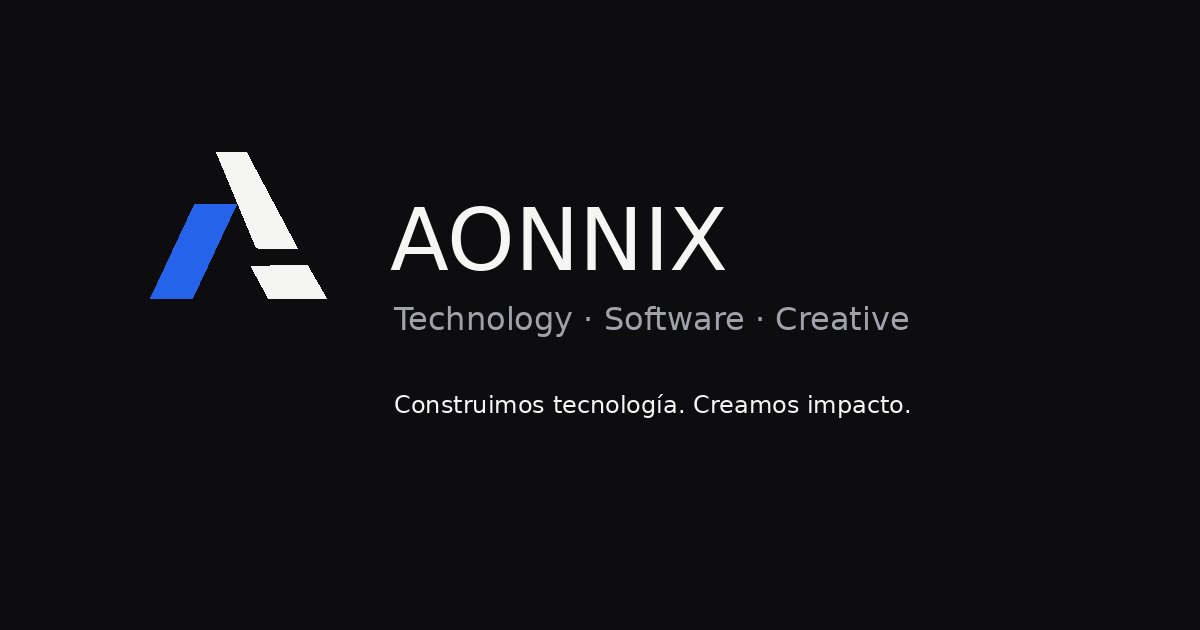
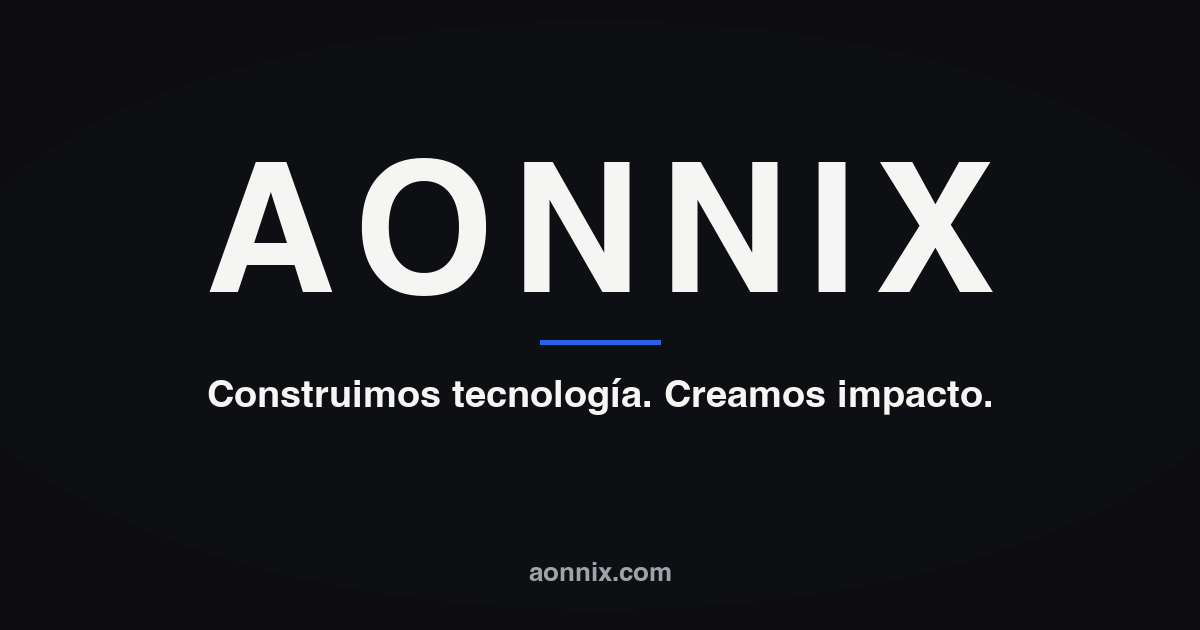
Limpia estructura web
rename brand a assets, regenera og-image sin isotipo, refina tipografia de paginas legales (Inter), centra headers, alinea meta de soporte CRED

diff --git a/legal-shared.css b/legal-shared.css
@@ -14,10 +14,12 @@
     --ink-faint:    #A1A1AA;        /* cold-silver del brand kit */
     --rule:         #e6e6ea;
     --rule-strong:  #cfcfd4;
-    /* "gold" se mantiene como compatibility shim — ahora apunta a graphite */
-    --gold:         #0D0D0F;
-    --gold-text:    #0D0D0F;
-    --gold-soft:    rgba(13, 13, 15, 0.05);
+    /* `--gold` se conserva como nombre histórico (compatibilidad con selectores existentes)
+       pero hoy apunta al premium blue del sistema — actúa como accent activo en eyebrows,
+       subrayados de h2, drop caps y guiones decorativos */
+    --gold:         #2563EB;
+    --gold-text:    #2563EB;
+    --gold-soft:    rgba(37, 99, 235, 0.08);
 
     /* Tipografía — Inter como principal alineado con styles.css del home */
     --serif-stack:  "Inter", "Manrope", system-ui, -apple-system, "Segoe UI", Roboto, sans-serif;
@@ -43,18 +45,19 @@
 
 @media (prefers-color-scheme: dark) {
     :root {
-        --paper:        #0D0D0F;     /* graphite del brand kit */
+        --paper:        #0D0D0F;
         --paper-soft:   #101013;
         --surface:      #131316;
         --surface-mute: #18181b;
-        --ink:          #F5F5F3;     /* soft-white del brand kit */
+        --ink:          #F5F5F3;
         --ink-muted:    #b8b8c0;
         --ink-faint:    #A1A1AA;
         --rule:         #1d1d22;
         --rule-strong:  #2c2c33;
-        --gold:         #F5F5F3;
-        --gold-text:    #F5F5F3;
-        --gold-soft:    rgba(245, 245, 243, 0.08);
+        /* En dark mode el accent se ilumina ligeramente para mantener contraste */
+        --gold:         #3b82f6;
+        --gold-text:    #60a5fa;
+        --gold-soft:    rgba(59, 130, 246, 0.12);
     }
 }
 
@@ -80,6 +83,9 @@ html {
 body {
     font-family: var(--serif-stack);
     font-weight: 400;
+    /* Bumpear ligeramente el tamaño base — Inter es más estrecha que Space Grotesk,
+       1.05rem mejora la legibilidad de los párrafos largos legales. */
+    font-size: 1.05rem;
     line-height: 1.7;
     color: var(--ink);
     background: var(--paper);
@@ -172,9 +178,10 @@ img, svg { max-width: 100%; display: block; }
     padding: clamp(2.5rem, 6vw, var(--space-6)) clamp(1.25rem, 5vw, 2rem) var(--space-5);
 }
 
-/* ---------- Hero ---------- */
+/* ---------- Hero (centrado) ---------- */
 .hero {
     margin-bottom: var(--space-5);
+    text-align: center;
 }
 
 .hero .eyebrow {
@@ -191,9 +198,10 @@ img, svg { max-width: 100%; display: block; }
 
 .hero .eyebrow::before {
     content: "";
-    width: 28px;
-    height: 1px;
+    width: 36px;
+    height: 2px;
     background: var(--gold);
+    border-radius: 2px;
 }
 
 .hero h1 {
@@ -202,7 +210,7 @@ img, svg { max-width: 100%; display: block; }
     line-height: 1.1;
     letter-spacing: -0.025em;
     color: var(--ink);
-    margin-bottom: 1rem;
+    margin: 0 auto 1rem;
     max-width: 22ch;
 }
 
@@ -258,9 +266,10 @@ img, svg { max-width: 100%; display: block; }
     position: absolute;
     left: 0;
     bottom: 0;
-    width: 36px;
-    height: 1px;
+    width: 48px;
+    height: 2px;
     background: var(--gold);
+    border-radius: 2px;
 }
 
 .section h3 {
@@ -272,15 +281,8 @@ img, svg { max-width: 100%; display: block; }
     letter-spacing: -0.005em;
 }
 
-/* Drop cap discreto para la primera <p> de la sección "intro" */
-.section.intro p:first-of-type::first-letter {
-    font-size: 3.1em;
-    font-weight: 600;
-    float: left;
-    line-height: 0.9;
-    margin: 0.1em 0.18em 0 -0.04em;
-    color: var(--gold-text);
-}
+/* (Drop cap eliminada: las páginas legales son texto informativo simple,
+   no editorial. La primera letra de cada sección se trata como texto normal.) */
 
 /* ---------- Body type ---------- */
 .section p {

diff --git a/support/cred-infantil/index.html b/support/cred-infantil/index.html
@@ -6,8 +6,8 @@
     <meta name="description" content="Centro de soporte de CRED Infantil 0–5: preguntas frecuentes, restauración de compras, fuentes oficiales (MINSA, OMS) y contacto directo.">
     <meta name="viewport" content="width=device-width, initial-scale=1, viewport-fit=cover">
     <meta name="robots" content="index,follow">
-    <meta name="theme-color" content="#ffffff" media="(prefers-color-scheme: light)">
-    <meta name="theme-color" content="#0b0b0d" media="(prefers-color-scheme: dark)">
+    <meta name="theme-color" content="#F5F5F3" media="(prefers-color-scheme: light)">
+    <meta name="theme-color" content="#0D0D0F" media="(prefers-color-scheme: dark)">
     <link rel="canonical" href="https://aonnix.com/support/cred-infantil/">
 
     <meta property="og:type" content="article">
@@ -18,13 +18,14 @@
     <meta property="og:description" content="Preguntas frecuentes, fuentes oficiales y contacto directo del equipo Aonnix Dev.">
     <meta property="og:image" content="https://aonnix.com/og-image.png">
 
-    <link rel="icon" type="image/svg+xml" href="/favicon.svg">
-    <link rel="apple-touch-icon" href="/apple-touch-icon.svg">
-    <link rel="mask-icon" href="/favicon.svg" color="#0e0e10">
+    <link rel="icon" type="image/png" sizes="32x32" href="/assets/favicons/favicon-32x32.png">
+    <link rel="icon" type="image/png" sizes="192x192" href="/assets/favicons/favicon-192x192.png">
+    <link rel="icon" type="image/png" sizes="512x512" href="/assets/favicons/favicon-512x512.png">
+    <link rel="apple-touch-icon" href="/assets/favicons/apple-touch-icon.png">
 
     <link rel="preconnect" href="https://fonts.googleapis.com">
     <link rel="preconnect" href="https://fonts.gstatic.com" crossorigin>
-    <link href="https://fonts.googleapis.com/css2?family=Space+Grotesk:wght@400;600&display=swap" rel="stylesheet">
+    <link href="https://fonts.googleapis.com/css2?family=Inter:wght@400;500;600;700&display=swap" rel="stylesheet">
 
     <link rel="stylesheet" href="/styles.css">
     <link rel="stylesheet" href="/legal-shared.css">
@@ -46,7 +47,7 @@
             <div class="hero">
                 <div class="eyebrow">CRED Infantil 0–5</div>
                 <h1>Centro de soporte</h1>
-                <div class="meta">Control de Crecimiento y Desarrollo · 0 a 5 años</div>
+                <div class="meta">Última actualización · 7 de mayo de 2026</div>
             </div>
 
             <section class="section intro with-margin-num">

diff --git a/terms/cred-infantil/index.html b/terms/cred-infantil/index.html
@@ -6,8 +6,8 @@
     <meta name="description" content="Términos de uso de CRED Infantil 0–5: aviso clínico, compras dentro de la aplicación (Premium pago único), propiedad intelectual y jurisdicción.">
     <meta name="viewport" content="width=device-width, initial-scale=1, viewport-fit=cover">
     <meta name="robots" content="index,follow">
-    <meta name="theme-color" content="#ffffff" media="(prefers-color-scheme: light)">
-    <meta name="theme-color" content="#0b0b0d" media="(prefers-color-scheme: dark)">
+    <meta name="theme-color" content="#F5F5F3" media="(prefers-color-scheme: light)">
+    <meta name="theme-color" content="#0D0D0F" media="(prefers-color-scheme: dark)">
     <link rel="canonical" href="https://aonnix.com/terms/cred-infantil/">
 
     <meta property="og:type" content="article">
@@ -18,13 +18,14 @@
     <meta property="og:description" content="Aviso clínico, compras dentro de la aplicación, propiedad intelectual y jurisdicción.">
     <meta property="og:image" content="https://aonnix.com/og-image.png">
 
-    <link rel="icon" type="image/svg+xml" href="/favicon.svg">
-    <link rel="apple-touch-icon" href="/apple-touch-icon.svg">
-    <link rel="mask-icon" href="/favicon.svg" color="#0e0e10">
+    <link rel="icon" type="image/png" sizes="32x32" href="/assets/favicons/favicon-32x32.png">
+    <link rel="icon" type="image/png" sizes="192x192" href="/assets/favicons/favicon-192x192.png">
+    <link rel="icon" type="image/png" sizes="512x512" href="/assets/favicons/favicon-512x512.png">
+    <link rel="apple-touch-icon" href="/assets/favicons/apple-touch-icon.png">
 
     <link rel="preconnect" href="https://fonts.googleapis.com">
     <link rel="preconnect" href="https://fonts.gstatic.com" crossorigin>
-    <link href="https://fonts.googleapis.com/css2?family=Space+Grotesk:wght@400;600&display=swap" rel="stylesheet">
+    <link href="https://fonts.googleapis.com/css2?family=Inter:wght@400;500;600;700&display=swap" rel="stylesheet">
 
     <link rel="stylesheet" href="/styles.css">
     <link rel="stylesheet" href="/legal-shared.css">

diff --git a/support/lonchera-facil/index.html b/support/lonchera-facil/index.html
@@ -6,8 +6,8 @@
     <meta name="description" content="Centro de soporte de Lonchera Fácil: preguntas frecuentes, restauración de compras Premium, recordatorios y contacto directo del equipo Aonnix Dev.">
     <meta name="viewport" content="width=device-width, initial-scale=1, viewport-fit=cover">
     <meta name="robots" content="index,follow">
-    <meta name="theme-color" content="#ffffff" media="(prefers-color-scheme: light)">
-    <meta name="theme-color" content="#0b0b0d" media="(prefers-color-scheme: dark)">
+    <meta name="theme-color" content="#F5F5F3" media="(prefers-color-scheme: light)">
+    <meta name="theme-color" content="#0D0D0F" media="(prefers-color-scheme: dark)">
     <link rel="canonical" href="https://aonnix.com/support/lonchera-facil/">
 
     <meta property="og:type" content="article">
@@ -18,13 +18,14 @@
     <meta property="og:description" content="Preguntas frecuentes, restauración de compras y contacto directo del equipo.">
     <meta property="og:image" content="https://aonnix.com/og-image.png">
 
-    <link rel="icon" type="image/svg+xml" href="/favicon.svg">
-    <link rel="apple-touch-icon" href="/apple-touch-icon.svg">
-    <link rel="mask-icon" href="/favicon.svg" color="#0e0e10">
+    <link rel="icon" type="image/png" sizes="32x32" href="/assets/favicons/favicon-32x32.png">
+    <link rel="icon" type="image/png" sizes="192x192" href="/assets/favicons/favicon-192x192.png">
+    <link rel="icon" type="image/png" sizes="512x512" href="/assets/favicons/favicon-512x512.png">
+    <link rel="apple-touch-icon" href="/assets/favicons/apple-touch-icon.png">
 
     <link rel="preconnect" href="https://fonts.googleapis.com">
     <link rel="preconnect" href="https://fonts.gstatic.com" crossorigin>
-    <link href="https://fonts.googleapis.com/css2?family=Space+Grotesk:wght@400;600&display=swap" rel="stylesheet">
+    <link href="https://fonts.googleapis.com/css2?family=Inter:wght@400;500;600;700&display=swap" rel="stylesheet">
 
     <link rel="stylesheet" href="/styles.css">
     <link rel="stylesheet" href="/legal-shared.css">

diff --git a/legal/cred-infantil-privacy/index.html b/legal/cred-infantil-privacy/index.html
@@ -6,8 +6,8 @@
     <meta name="description" content="Política de privacidad de CRED Infantil 0–5: almacenamiento local en el dispositivo, sin servidores propios, sin tracking ni publicidad.">
     <meta name="viewport" content="width=device-width, initial-scale=1, viewport-fit=cover">
     <meta name="robots" content="index,follow">
-    <meta name="theme-color" content="#ffffff" media="(prefers-color-scheme: light)">
-    <meta name="theme-color" content="#0b0b0d" media="(prefers-color-scheme: dark)">
+    <meta name="theme-color" content="#F5F5F3" media="(prefers-color-scheme: light)">
+    <meta name="theme-color" content="#0D0D0F" media="(prefers-color-scheme: dark)">
     <link rel="canonical" href="https://aonnix.com/legal/cred-infantil-privacy/">
 
     <meta property="og:type" content="article">
@@ -18,13 +18,14 @@
     <meta property="og:description" content="Almacenamiento 100% local. Sin servidores propios, sin tracking, sin publicidad.">
     <meta property="og:image" content="https://aonnix.com/og-image.png">
 
-    <link rel="icon" type="image/svg+xml" href="/favicon.svg">
-    <link rel="apple-touch-icon" href="/apple-touch-icon.svg">
-    <link rel="mask-icon" href="/favicon.svg" color="#0e0e10">
+    <link rel="icon" type="image/png" sizes="32x32" href="/assets/favicons/favicon-32x32.png">
+    <link rel="icon" type="image/png" sizes="192x192" href="/assets/favicons/favicon-192x192.png">
+    <link rel="icon" type="image/png" sizes="512x512" href="/assets/favicons/favicon-512x512.png">
+    <link rel="apple-touch-icon" href="/assets/favicons/apple-touch-icon.png">
 
     <link rel="preconnect" href="https://fonts.googleapis.com">
     <link rel="preconnect" href="https://fonts.gstatic.com" crossorigin>
-    <link href="https://fonts.googleapis.com/css2?family=Space+Grotesk:wght@400;600&display=swap" rel="stylesheet">
+    <link href="https://fonts.googleapis.com/css2?family=Inter:wght@400;500;600;700&display=swap" rel="stylesheet">
 
     <link rel="stylesheet" href="/styles.css">
     <link rel="stylesheet" href="/legal-shared.css">

diff --git a/legal/lonchera-facil-privacy/index.html b/legal/lonchera-facil-privacy/index.html
@@ -6,8 +6,8 @@
     <meta name="description" content="Política de privacidad de Lonchera Fácil: almacenamiento 100% local, sin servidores propios, sin tracking, sin publicidad.">
     <meta name="viewport" content="width=device-width, initial-scale=1, viewport-fit=cover">
     <meta name="robots" content="index,follow">
-    <meta name="theme-color" content="#ffffff" media="(prefers-color-scheme: light)">
-    <meta name="theme-color" content="#0b0b0d" media="(prefers-color-scheme: dark)">
+    <meta name="theme-color" content="#F5F5F3" media="(prefers-color-scheme: light)">
+    <meta name="theme-color" content="#0D0D0F" media="(prefers-color-scheme: dark)">
     <link rel="canonical" href="https://aonnix.com/legal/lonchera-facil-privacy/">
 
     <meta property="og:type" content="article">
@@ -18,13 +18,14 @@
     <meta property="og:description" content="Almacenamiento 100% local. Sin servidores propios, sin tracking, sin publicidad.">
     <meta property="og:image" content="https://aonnix.com/og-image.png">
 
-    <link rel="icon" type="image/svg+xml" href="/favicon.svg">
-    <link rel="apple-touch-icon" href="/apple-touch-icon.svg">
-    <link rel="mask-icon" href="/favicon.svg" color="#0e0e10">
+    <link rel="icon" type="image/png" sizes="32x32" href="/assets/favicons/favicon-32x32.png">
+    <link rel="icon" type="image/png" sizes="192x192" href="/assets/favicons/favicon-192x192.png">
+    <link rel="icon" type="image/png" sizes="512x512" href="/assets/favicons/favicon-512x512.png">
+    <link rel="apple-touch-icon" href="/assets/favicons/apple-touch-icon.png">
 
     <link rel="preconnect" href="https://fonts.googleapis.com">
     <link rel="preconnect" href="https://fonts.gstatic.com" crossorigin>
-    <link href="https://fonts.googleapis.com/css2?family=Space+Grotesk:wght@400;600&display=swap" rel="stylesheet">
+    <link href="https://fonts.googleapis.com/css2?family=Inter:wght@400;500;600;700&display=swap" rel="stylesheet">
 
     <link rel="stylesheet" href="/styles.css">
     <link rel="stylesheet" href="/legal-shared.css">

diff --git a/terms/lonchera-facil/index.html b/terms/lonchera-facil/index.html
@@ -6,8 +6,8 @@
     <meta name="description" content="Términos de uso de Lonchera Fácil: aviso alimentario, suscripción anual y pago único lifetime, Family Sharing y jurisdicción.">
     <meta name="viewport" content="width=device-width, initial-scale=1, viewport-fit=cover">
     <meta name="robots" content="index,follow">
-    <meta name="theme-color" content="#ffffff" media="(prefers-color-scheme: light)">
-    <meta name="theme-color" content="#0b0b0d" media="(prefers-color-scheme: dark)">
+    <meta name="theme-color" content="#F5F5F3" media="(prefers-color-scheme: light)">
+    <meta name="theme-color" content="#0D0D0F" media="(prefers-color-scheme: dark)">
     <link rel="canonical" href="https://aonnix.com/terms/lonchera-facil/">
 
     <meta property="og:type" content="article">
@@ -18,13 +18,14 @@
     <meta property="og:description" content="Aviso alimentario, compras dentro de la aplicación y jurisdicción.">
     <meta property="og:image" content="https://aonnix.com/og-image.png">
 
-    <link rel="icon" type="image/svg+xml" href="/favicon.svg">
-    <link rel="apple-touch-icon" href="/apple-touch-icon.svg">
-    <link rel="mask-icon" href="/favicon.svg" color="#0e0e10">
+    <link rel="icon" type="image/png" sizes="32x32" href="/assets/favicons/favicon-32x32.png">
+    <link rel="icon" type="image/png" sizes="192x192" href="/assets/favicons/favicon-192x192.png">
+    <link rel="icon" type="image/png" sizes="512x512" href="/assets/favicons/favicon-512x512.png">
+    <link rel="apple-touch-icon" href="/assets/favicons/apple-touch-icon.png">
 
     <link rel="preconnect" href="https://fonts.googleapis.com">
     <link rel="preconnect" href="https://fonts.gstatic.com" crossorigin>
-    <link href="https://fonts.googleapis.com/css2?family=Space+Grotesk:wght@400;600&display=swap" rel="stylesheet">
+    <link href="https://fonts.googleapis.com/css2?family=Inter:wght@400;500;600;700&display=swap" rel="stylesheet">
 
     <link rel="stylesheet" href="/styles.css">
     <link rel="stylesheet" href="/legal-shared.css">

diff --git a/index.html b/index.html
@@ -11,11 +11,10 @@
     <link rel="canonical" href="https://aonnix.com/">
 
     <!-- Favicons del AONNIX Brand Kit Phase 1. Fuente de marca: 06_MARKETING/branding/AONNIX/phase-1/. -->
-    <link rel="icon" type="image/png" sizes="32x32" href="/brand/favicons/favicon-32x32.png">
-    <link rel="icon" type="image/png" sizes="192x192" href="/brand/favicons/favicon-192x192.png">
-    <link rel="icon" type="image/png" sizes="512x512" href="/brand/favicons/favicon-512x512.png">
-    <link rel="apple-touch-icon" href="/brand/favicons/apple-touch-icon.png">
-    <link rel="mask-icon" href="/favicon.svg" color="#0D0D0F">
+    <link rel="icon" type="image/png" sizes="32x32" href="/assets/favicons/favicon-32x32.png">
+    <link rel="icon" type="image/png" sizes="192x192" href="/assets/favicons/favicon-192x192.png">
+    <link rel="icon" type="image/png" sizes="512x512" href="/assets/favicons/favicon-512x512.png">
+    <link rel="apple-touch-icon" href="/assets/favicons/apple-touch-icon.png">
 
     <!-- Open Graph. og-image.png es 1200x630 (compatible con Facebook, WhatsApp, Instagram, LinkedIn, Twitter). -->
     <meta property="og:type" content="website">
@@ -46,7 +45,7 @@
         "name": "Aonnix",
         "legalName": "AONNIX E.I.R.L.",
         "url": "https://aonnix.com",
-        "logo": "https://aonnix.com/favicon.svg",
+        "logo": "https://aonnix.com/assets/favicons/favicon-512x512.png",
         "email": "hola@aonnix.com",
         "address": {
             "@type": "PostalAddress",

diff --git a/creative/index.html b/creative/index.html
@@ -11,11 +11,10 @@
     <link rel="canonical" href="https://aonnix.com/creative/">
 
     <!-- Favicons del AONNIX Brand Kit Phase 1. Fuente de marca: 06_MARKETING/branding/AONNIX/phase-1/. -->
-    <link rel="icon" type="image/png" sizes="32x32" href="/brand/favicons/favicon-32x32.png">
-    <link rel="icon" type="image/png" sizes="192x192" href="/brand/favicons/favicon-192x192.png">
-    <link rel="icon" type="image/png" sizes="512x512" href="/brand/favicons/favicon-512x512.png">
-    <link rel="apple-touch-icon" href="/brand/favicons/apple-touch-icon.png">
-    <link rel="mask-icon" href="/favicon.svg" color="#0D0D0F">
+    <link rel="icon" type="image/png" sizes="32x32" href="/assets/favicons/favicon-32x32.png">
+    <link rel="icon" type="image/png" sizes="192x192" href="/assets/favicons/favicon-192x192.png">
+    <link rel="icon" type="image/png" sizes="512x512" href="/assets/favicons/favicon-512x512.png">
+    <link rel="apple-touch-icon" href="/assets/favicons/apple-touch-icon.png">
 
     <!-- Open Graph. og-image.png es 1200x630 (compatible con todas las redes). -->
     <meta property="og:type" content="website">

diff --git a/studio/index.html b/studio/index.html
@@ -11,11 +11,10 @@
     <link rel="canonical" href="https://aonnix.com/studio/">
 
     <!-- Favicons del AONNIX Brand Kit Phase 1. Fuente de marca: 06_MARKETING/branding/AONNIX/phase-1/. -->
-    <link rel="icon" type="image/png" sizes="32x32" href="/brand/favicons/favicon-32x32.png">
-    <link rel="icon" type="image/png" sizes="192x192" href="/brand/favicons/favicon-192x192.png">
-    <link rel="icon" type="image/png" sizes="512x512" href="/brand/favicons/favicon-512x512.png">
-    <link rel="apple-touch-icon" href="/brand/favicons/apple-touch-icon.png">
-    <link rel="mask-icon" href="/favicon.svg" color="#0D0D0F">
+    <link rel="icon" type="image/png" sizes="32x32" href="/assets/favicons/favicon-32x32.png">
+    <link rel="icon" type="image/png" sizes="192x192" href="/assets/favicons/favicon-192x192.png">
+    <link rel="icon" type="image/png" sizes="512x512" href="/assets/favicons/favicon-512x512.png">
+    <link rel="apple-touch-icon" href="/assets/favicons/apple-touch-icon.png">
 
     <!-- Open Graph. og-image.png es 1200x630 (compatible con todas las redes). -->
     <meta property="og:type" content="website">

diff --git a/music/index.html b/music/index.html
@@ -11,11 +11,10 @@
     <link rel="canonical" href="https://aonnix.com/music/">
 
     <!-- Favicons del AONNIX Brand Kit Phase 1. Fuente de marca: 06_MARKETING/branding/AONNIX/phase-1/. -->
-    <link rel="icon" type="image/png" sizes="32x32" href="/brand/favicons/favicon-32x32.png">
-    <link rel="icon" type="image/png" sizes="192x192" href="/brand/favicons/favicon-192x192.png">
-    <link rel="icon" type="image/png" sizes="512x512" href="/brand/favicons/favicon-512x512.png">
-    <link rel="apple-touch-icon" href="/brand/favicons/apple-touch-icon.png">
-    <link rel="mask-icon" href="/favicon.svg" color="#0D0D0F">
+    <link rel="icon" type="image/png" sizes="32x32" href="/assets/favicons/favicon-32x32.png">
+    <link rel="icon" type="image/png" sizes="192x192" href="/assets/favicons/favicon-192x192.png">
+    <link rel="icon" type="image/png" sizes="512x512" href="/assets/favicons/favicon-512x512.png">
+    <link rel="apple-touch-icon" href="/assets/favicons/apple-touch-icon.png">
 
     <!-- Open Graph. og-image.png es 1200x630 (compatible con todas las redes). -->
     <meta property="og:type" content="website">

diff --git a/dev/index.html b/dev/index.html
@@ -11,11 +11,10 @@
     <link rel="canonical" href="https://aonnix.com/dev/">
 
     <!-- Favicons del AONNIX Brand Kit Phase 1. Fuente de marca: 06_MARKETING/branding/AONNIX/phase-1/. -->
-    <link rel="icon" type="image/png" sizes="32x32" href="/brand/favicons/favicon-32x32.png">
-    <link rel="icon" type="image/png" sizes="192x192" href="/brand/favicons/favicon-192x192.png">
-    <link rel="icon" type="image/png" sizes="512x512" href="/brand/favicons/favicon-512x512.png">
-    <link rel="apple-touch-icon" href="/brand/favicons/apple-touch-icon.png">
-    <link rel="mask-icon" href="/favicon.svg" color="#0D0D0F">
+    <link rel="icon" type="image/png" sizes="32x32" href="/assets/favicons/favicon-32x32.png">
+    <link rel="icon" type="image/png" sizes="192x192" href="/assets/favicons/favicon-192x192.png">
+    <link rel="icon" type="image/png" sizes="512x512" href="/assets/favicons/favicon-512x512.png">
+    <link rel="apple-touch-icon" href="/assets/favicons/apple-touch-icon.png">
 
     <!-- Open Graph. og-image.png es 1200x630 (compatible con todas las redes). -->
     <meta property="og:type" content="website">
